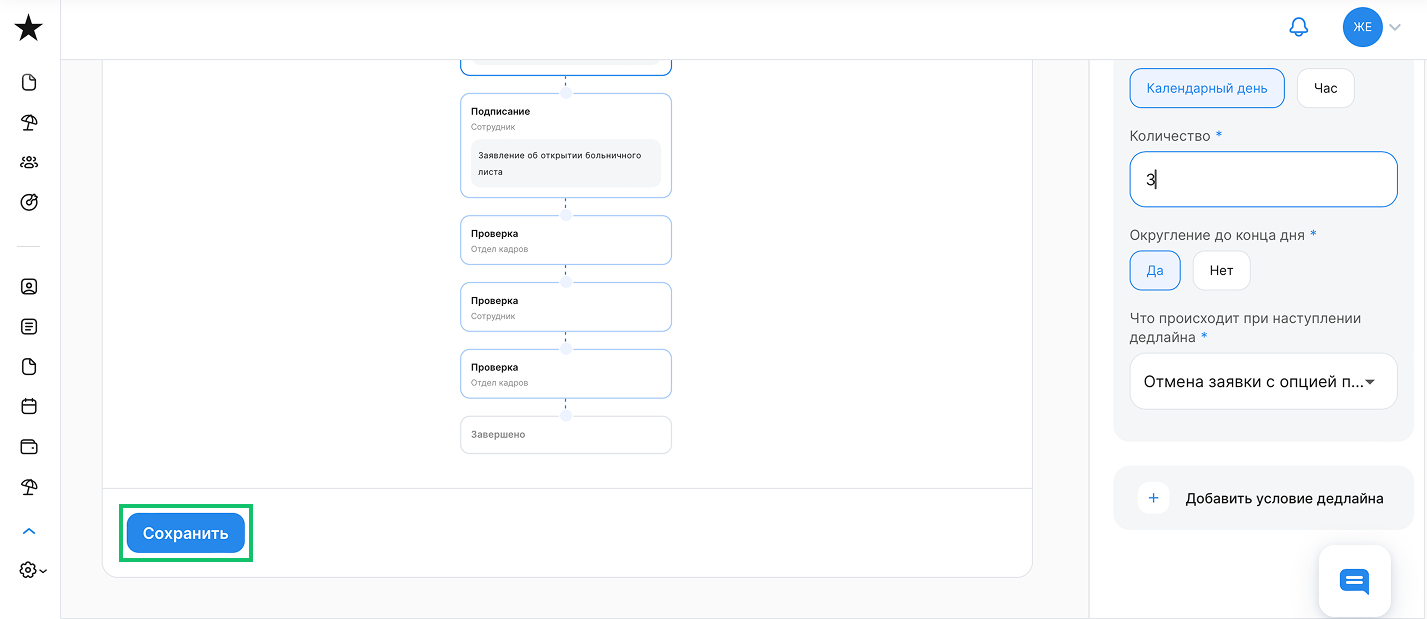
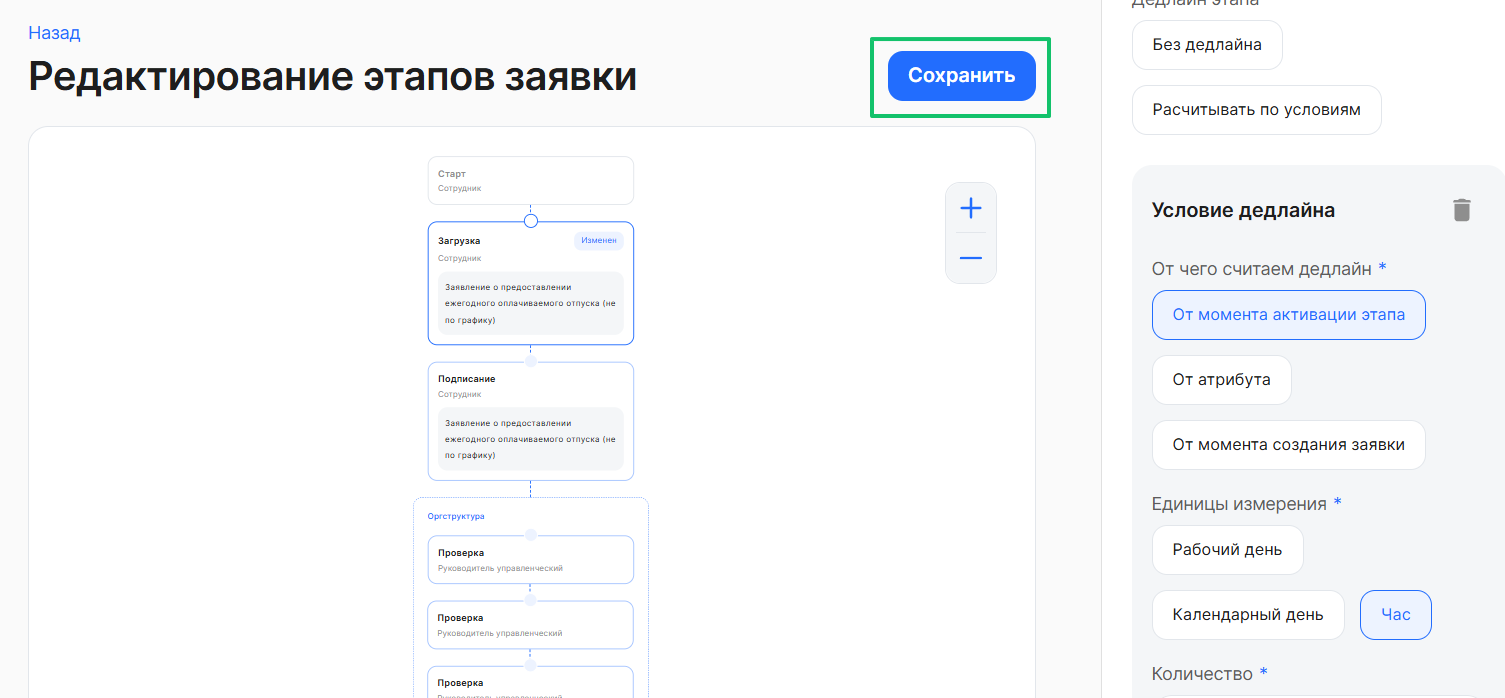
Release 2026-03-19 05:46:16

diff --git a/docs/ru/admin_actions/events_types/managing_event_types/deadline/deadline.md b/docs/ru/admin_actions/events_types/managing_event_types/deadline/deadline.md
@@ -1,10 +1,14 @@
 У определённых типов заявок могут быть проставлены ограничения по времени, до которого документ должен быть подписан. По истечении этого срока заявка автоматически отменится и её можно будет подписать только в бумажном виде. 
 
+Можно задать до трёх условий для вычисления дедлайна на этапе заявки.
+
+По каждому заданному условию рассчитываются свои дата и время дедлайна.
+
 <warn>
 Важно отслеживать дедлайны, чтобы заявка не отменилась
 </warn>
 
-Для добавления и редактирования дедлайна на этапах бизнес-процесса перейдите в **Сервисы компании → Настройки → Типы заявок**. 
+Для добавления и редактирования дедлайна на этапах бизнес-процесса перейдите в **Сервисы компании** → **Настройки** → **Типы заявок**. 
 
 Если в **Сервисах компании** заведено несколько юрлиц, раскройте тот блок компании, в котором необходимо обработать типы заявок. Откройте необходимый тип заявки.
 
@@ -19,35 +23,39 @@
 
 При изменении данных этапов заявки правила валидации обновятся в активных этапах текущих заявок. Новые настройки исполнителей этапов, дедлайнов и оргструктуры применятся только в новых заявках.
 
-Корректировать типы заявок может только пользователь с ролью **Администратор**.
+Корректировать типы заявок может только пользователь с ролью **Администратор**
 
 </warn>
 
 При наведении курсора на любой этап процесса появляются подсказки о сроке и событии при наступлении дедлайна.
 
-![Тип заявки](./assets/deadline1.png)
+Чтобы отредактировать настройки этапа, нажмите кнопку **Редактировать**.
 
-Чтобы отредактировать настройки этапа, нажмите кнопку !["Карандаш"](./assets/pencil1.png "inline") в этапе процесса.
+![](./assets/deadline1.png)
 
-В форме **Редактирование** заполните поля:
+В форме **Редактирование этапов заявки** выберите этап процесса. В правой части окна появится блок **Настройки**.
 
-- **На чьей стороне**. Из списка выберите одного из представителей компании, например, *Отдел кадров*. Подробнее об исполнителях на этапах процесса описано в [статье](/ru/admin_actions/events_types/managing_event_types/executors). 
+![](./assets/deadline_settings.png)
 
-<info> Заполнение поля **На чьей стороне** недоступно в случае, если указано значение **Сотрудник** или **Руководитель**. 
+В блоке **Настройки** из списка выберите одного из представителей компании, например, *Отдел кадров*. Подробнее об исполнителях на этапах процесса описано в [статье](/ru/admin_actions/events_types/managing_event_types/executors). 
+
+<info> Выбор исполнителя не доступен в случае, если указано значение **Сотрудник** или **Руководитель**
 </info>
 
-- **От чего считаем дедлайн**. Из списка выберите событие, от которого будет рассчитываться дедлайн: **От момента активации этапа**, **От атрибута**, **От момента создания заявки**. Примеры расчёта дедлайна см. в [статье](/ru/hr/company/application/deadline).
+В блоке **Настройки** выберите опцию **Расчитывать по условиям** и заполните поля:
 
-<info> Дальнейшее заполнение формы **Редактирование** невозможно, пока в поле **От чего считаем дедлайн** указан пункт «Без дедлайна»
-</info>
+Задайте условия расчёта дедлайна. Можно задать до трёх условий для вычисления дедлайна на этапе заявки.
 
-![Без дедлайна](./assets/no_deadline.png)
+- **От чего считаем дедлайн**. Из списка выберите событие, от которого будет рассчитываться дедлайн: **От момента активации этапа**, **От атрибута**, **От момента создания заявки**. Примеры расчёта дедлайна см. в [статье](/ru/hr/company/application/deadline)
+
+
+![](./assets/deadline_edit.png)
 
 <br>
 
 ## **Редактирование дедлайна от момента активации этапа и от момента создания заявки**
 
-<info> Редактирование дедлайна **от момента создания заявки** проходит аналогично процедуре редактирования дедлайна **от момента активации этапа**. </info>
+<info> Редактирование дедлайна **от момента создания заявки** проходит аналогично процедуре редактирования дедлайна **от момента активации этапа** </info>
 
 В поле **От чего считаем дедлайн** выберите событие **От момента активации этапа** и заполните следующие поля: 
 
@@ -65,7 +73,7 @@
 
 <info> Настройка **Отмена заявки с опцией перехода в бумагу** установлена по умолчанию </info>
 
-![От момента активации этапа](./assets/active.png)
+![](./assets/deadline_activate.png)
 
 <br>
 
@@ -88,30 +96,37 @@
 
 <info> Настройка **Отмена заявки с опцией перехода в бумагу** установлена по умолчанию </info>
 
-![От атрибута](./assets/atribut.png)
+![](./assets/deadline_atribut.png)
 
 <br>
 
 ## **Сохранение дедлайна**
-На форме **Редактирование** нажмите кнопку **Сохранить**. 
 
-<info> Кнопка **Сохранить** станет доступна после заполнения всех обязательных полей на форме **Редактирование** </info>
+<info> Кнопка **Сохранить** станет доступна после заполнения всех обязательных полей на форме **Редактирование этапов заявки** </info>
 
-Чтобы подтвердить изменение дедлайна в этапе заявки, нажмите кнопку **Изменить**.
+На этапах, где Администратор КЭДО приступил к редактированию и при этом не заполнил все обязательные поля, появится метка «Заполните данные».
 
-![Изменение типа заявки](./assets/deadline2.png)
+В форме **Редактирование этапов заявки** нажмите кнопку **Сохранить**. 
+
+Чтобы подтвердить изменения дедлайнов в этапах заявки, нажмите кнопку **Изменить**.
+
+![](./assets/deadline2.png)
 
 В блоке этапа процесса обновится срок на исполнение этапа.
 
 ## **Удаление дедлайна**
-Для удаления дедлайна нажмите кнопку !["Удалить"](./assets/delete.png "inline") в блоке этапа процесса.
+Для удаления дедлайна откройте нужный тип заявок, в блоке **Этапы заявки** нажмите кнопку **Редактировать**.
 
-![Тип заявки](./assets/deadline3.png)
+Выберите этап процесса, в котором необходимо удалить дедлайн, в блоке **Настройки** в поле **Дедлайн этапа** выберите **Без дедлайна**. 
 
-Чтобы подтвердить удаление дедлайна, нажмите кнопку **Удалить дедлайн**.
+Нажмите кнопку **Сохранить**.
 
-![Удалить дедлайн](./assets/deadline4.png)
+![](./assets/deadline3.png)
 
-После удаления дедлайна в блоке этапа больше не будет назначен дедлайн (надпись *Нет дедлайна*).  
+Чтобы подтвердить удаление дедлайна, нажмите кнопку **Изменить**.
 
-Дедлайн можно пересоздать снова, повторив действия из статьи [Добавление и редактирование дедлайна](#dobavlenie-i-redaktirovanie-dedlayna). 
+![](./assets/deadline_not.png)
+
+После удаления дедлайна в блоке этапа появится надпись *Нет дедлайна*.  
+
+Дедлайн можно задать снова, повторив действия, описанные в статье [Добавление и редактирование дедлайна](#dobavlenie-i-redaktirovanie-dedlayna). 

diff --git a/docs/ru/admin_actions/settings/account/role_model/role_model.md b/docs/ru/admin_actions/settings/account/role_model/role_model.md
@@ -1,0 +1,104 @@
+Настройка ролевой модели один раз для всех компаний в рамках аккаунта — упрощает администрирование крупных холдингов и сетевых структур. Вместо повторной настройки прав доступа в каждой компании, достаточно сконфигурировать модель на уровне аккаунта, и все компании автоматически унаследуют эти настройки.  Администратор может также отметить отдельные компании как исключения, для которых будут действовать собственные настройки ролевой модели.
+
+Доступно для пользователей с ролью «Администратор в аккаунте» в разделе **Настройки → Настройки аккаунта**.
+
+В блоке **Настройка доступов к данным → Использование ролевой модели** можно выполнить следующие действия:
+
+1. включить/отключить использование ролевой модели на аккаунт; 
+
+2. настроить ролевую модель на аккаунт;
+
+3. управлять исключениями — компаниями, которые имеют ролевую модель, отличимую от модели аккаунта. 
+
+![](./assets/AccountSettings-admin-22.png)
+
+## Настройка доступов к данным
+
+Чтобы настроить доступы к данным для всех компаний в аккаунте, кроме исключений, нажмите кнопку **Настроить**. Настройки можно редактировать, когда ролевая модель не используется (состояние **Выключено**), а затем включить уже настроенную модель. 
+
+Доступы при выключенной ролевой модели установлены в соответствии с настройками доступа для ролей (групп) представителей компании.
+
+На странице **Аккаунт: настройка доступов к данным** можно настроить доступ к разделам и данным сервиса для всех сотрудников, руководителей, представителей компании. 
+
+![](./assets/Accessessettings-1-3.png)
+
+<br>
+
+В таблице перечислены данные, к которым настраивается доступ, из следующих разделов сервиса VK HR Tek:
+
+1. Общее — Оргструктура.
+1. Общее — Данные сотрудников в оргструктуре компании.
+1. Компания — Сотрудники (доступ целиком).
+1. Компания — Корпоративные документы (доступ целиком).
+1. Компания — Рабочее время (доступ целиком).
+1. Сотрудник — Компетенции (доступ целиком).
+1. Сотрудник — Персональные данные (доступ к отдельным данным: дата рождения, общая информация, документы, контакты, о семье).
+
+Некоторые данные из перечисленных разделов полностью недоступны для редактирования. Это связано с тем, что у пользователя нет роли для доступа к разделам на стороне компании в аккаунте.  
+
+В рамках аккаунта можно настроить доступ для следующих типов пользователей:
+
+1. Сотрудники:
+- все сотрудники компании — пользователи, у которых есть хотя бы один неуволенный сотрудник в компании;
+- все сотрудники группы компаний — пользователи, у которых есть хотя бы один неуволенный сотрудник в любой компании аккаунта (если компания входит в группу компаний).
+
+![](./assets/r5.png)
+
+<br>
+
+2. Руководители:
+- все руководители — пользователи, которые являются руководителями по любому алгоритму;
+- руководители сотрудника — пользователи, которые (по любому алгоритму) являются прямыми или выше по иерархии руководителями определенного сотрудника.
+
+![](./assets/r4.png)
+
+<br>
+
+3. Представители компании:
+- все представители компании — пользователи, у которых есть хотя бы одна роль в компании;
+- представители определенной роли в компании. Если у роли есть родительская роль, то название роли в выпадающем списке выглядит: <Название группы / Название родительской группы>, например, Бухгалтер / Главный бухгалтер / Руководитель бухгалтерии. 
+
+![](./assets/r3.png)
+
+<br>
+
+По завершении редактирования настроек нажмите кнопку **Сохранить настройку**.
+
+![](./assets/r6.png)
+
+## Включение ролевой модели
+Чтобы включить настроенную ролевую модель, активируйте переключатель на странице **Настройки аккаунта** или нажмите кнопку **Включить** на странице настройки ролевой модели, а затем подтвердите действие.
+
+![](./assets/r23.png)
+
+![](./assets/r24.png)
+
+![](./assets/r7.png)
+
+## Управление исключениями
+
+Чтобы настроить ролевую модель для отдельной компании в аккаунте, нажмите кнопку **Управлять исключениями** на странице **Настройки аккаунта**.
+
+![](./assets/r8.png)
+
+На странице **Управление исключениями**, если в список исключений ранее были добавлены компании, можно отредактировать настройки доступа для этих компаний. Для этого нажмите на строку с названием компании в списке. 
+
+Для добавления компании в список исключений нажмите кнопку **Добавить исключение**.
+
+![](./assets/AccountSettings-admin-14.png)
+
+Добавьте компании из выпадающего списка и сохраните выбор. 
+
+![](./assets/AccountSettings-admin-13.png)
+
+Чтобы настроить ролевую модель в компании, откройте необходимую компанию в списке исключений.
+
+![](./assets/r9.png)
+
+Настройка ролевой модели для компании описана в статье [Использование ролевой модели](/ru/admin_actions/settings/settings_comp/role_model#nastroyka_dostupov_k_dannym).
+
+Чтобы удалить компанию из списка исключений, нажмите кнопку **Удалить компанию**.
+
+![](./assets/r10.png)
+
+

diff --git a/docs/ru/hr/company/application/deadline/deadline.md b/docs/ru/hr/company/application/deadline/deadline.md
@@ -1,6 +1,21 @@
-Каждый этап заявки может иметь срок окончания — дедлайн. Добавлять, редактировать и удалять дедлайны может только сотрудник с ролью «Администратор» в Кабинете компании, в разделе **Настройки → Типы заявок** (см. [статью](/ru/admin_actions/events_types/managing_event_types)).
+Каждый этап заявки может иметь срок окончания — дедлайн. 
 
-У определенных типов заявок могут быть проставлены ограничения по времени, до которого документ должен быть подписан или проверен. По истечении этого срока заявка автоматически отменится и ее можно будет подписать только в бумажном виде (заявка перейдет в раздел **В бумагу**).
+Если выбрать опцию **Без дедлайна**, дедлайн на этап НЕ будет установлен, а заявка перейдёт на следующий этап, как только будет совершено действие загрузка/подписание/проверка. 
+
+Добавлять, редактировать и удалять дедлайны может только сотрудник с ролью «Администратор» в Кабинете компании, в разделе **Настройки** → **Типы заявок** (см. [статью](/ru/admin_actions/events_types/managing_event_types)).
+
+У определенных типов заявок могут быть проставлены ограничения по времени, до которого документ должен быть подписан или проверен. По истечении этого срока заявка автоматически отменится и ее можно будет подписать только в бумажном виде (заявка перейдёт в раздел **В бумагу**).
+
+Можно задать до трёх условий для вычисления дедлайна на этапе заявки.
+
+По каждому заданному условию рассчитываются свои дата и время дедлайна. Затем Администратор выбирает одну из опций определения дедлайна:
+
+- Ближайшая дата (по умолчанию).
+- Поздняя дата.
+
+Пример расчёта дедлайна по каждому из условий:
+
+![](./assets/deadline_table.png)
 
 <warn>
 Важно отслеживать дедлайны, чтобы заявка не отменилась
@@ -9,12 +24,12 @@
 ![](./assets/13.png)
 
 ## От чего считается дедлайн?
-При создании/редактировании дедлайна Администратор выбирает событие, от которого будет рассчитываться дедлайн:
 
-- **Без дедлайна**. Дедлайн на этап НЕ будет установлен, а заявка перейдет на следующий этап как будет совершено действие загрузка/подписание/проверка. 
-- **От момента активации этапа**. Отсчет дедлайна по данному этапу станет активным, после того как заявка перейдет на следующий этап. 
+При создании или редактировании дедлайна Администратор выбирает событие, от которого будет рассчитываться дедлайн:
+
+- **От момента активации этапа**. Отсчёт дедлайна по данному этапу станет активным, после того как заявка перейдёт на следующий этап. 
 - **От атрибута**. Атрибут – это поле, которое заполняет либо сотрудник, либо представитель компании, например, **Дата начала отпуска**, **Дата перевода**. Нельзя указывать дедлайн от атрибута на первом этапе заявки. 
-- **От момента создания заявки**. Отсчет дедлайна станет активным после создания заявки. По умолчанию моментом создания заявки считается 00:00 даты создания заявки.
+- **От момента создания заявки**. Отсчёт дедлайна станет активным после создания заявки. По умолчанию моментом создания заявки считается 00:00 даты создания заявки.
 
 Не рекомендуем ставить дедлайны на последних этапах с типом **Проверка**.
 
@@ -27,7 +42,7 @@
 - Нулевое значение. Пример: 0 дней. Сотрудник должен выполнить этап до конца текущего дня с момента активации этапа. 01.09.2023 10:20:00 + 0 дней с округлением до конца дня = 02.09.2023 → дедлайн наступит в 00:00:00 02.09.2023.
 
 ## Дедлайн «От атрибута»
-Дедлайн может отсчитываться в *рабочих или* *календарных днях*.
+Дедлайн может отсчитываться в *рабочих* или *календарных днях*.
 
 Значения дедлайнов могут быть:
 
@@ -77,4 +92,4 @@
 
 - **Отмена заявки с опцией перехода в бумагу**.  При наступлении дедлайна заявка будет отменена и попадёт в список **В бумагу**;
 - **Отмена заявки**. При наступлении дедлайна заявка будет отменена (в список **В бумагу** не попадёт);
-- **Переход на следующий этап**. При наступлении дедлайна заявка перейдет на следующий этап. Работает только на этапе **Проверка**. На этапах загрузки и подписания не работает. 
+- **Переход на следующий этап**. При наступлении дедлайна заявка перейдёт на следующий этап. Работает только на этапе **Проверка**. На этапах загрузки и подписания не работает. 

diff --git a/docs/ru/admin_actions/events_types/managing_event_types/executors/executors.md b/docs/ru/admin_actions/events_types/managing_event_types/executors/executors.md
@@ -1,14 +1,14 @@
 На этапах процесса с типом «Проверка» (этап не должен быть на руководителе), «Подписание» и «Загрузка» можно менять подписанта/согласующего.
 
 Чтобы назначить исполнителя на этапе:
-1. Перейдите в **Сервисы компании → Настройки → Типы заявок**.
+1. Перейдите в **Сервисы компании** → **Настройки** → **Типы заявок**.
 2. Откройте нужный тип заявки из списка бизнес-процессов компании.
-3.  Нажмите на кнопку !["Карандаш"](./assets/pencil1.png "inline") в этапе процесса.
-4. В форме **Редактирование** заполните поле **На чьей стороне**. 
+3. Нажмите на кнопку **Редактировать** в блоке **Этапы заявки**.
+4. В блоке **Настройки** выберите исполнителя этапа из выпадающего списка. 
 
-Изменить исполнителя можно на роль, доступную в списке **На чьей стороне**. Главное условие – сотруднику, который должен будет подписать или согласовать документ на этапе, должна быть выдана соответствующая роль (например, Отдел кадров, Бухгалтерия и т.д.).
+Изменить исполнителя можно на роль, доступную в списке. Главное условие – сотруднику, который должен будет подписать или согласовать документ на этапе, должна быть выдана соответствующая роль (например, Отдел кадров, Бухгалтерия и т.д.).
 
-Пользователь с правами Администратора присваивает роли в разделе **Сервисы компании → Настройки → Роли сотрудников** (см. [статью](/ru/admin_actions/settings/groups)).
+Пользователь с правами Администратора присваивает роли в разделе **Сервисы компании** → **Настройки** → **Роли сотрудников** (см. [статью](/ru/admin_actions/settings/groups)).
 
 ![Исполнители на этапах](./assets/executors.png)
 
@@ -16,6 +16,6 @@
 
 При изменении данных этапов заявки правила валидации обновятся в активных этапах текущих заявок. Новые настройки исполнителей этапов, дедлайнов и оргструктуры применятся только в новых заявках.
 
-Корректировать типы заявок может только пользователь с ролью **Администратор**.
+Корректировать типы заявок может только пользователь с ролью **Администратор**
 
 </warn>

diff --git a/docs/ru/hr/company/application/faq/question4/question4.md b/docs/ru/hr/company/application/faq/question4/question4.md
@@ -8,11 +8,13 @@
 </warn>
 
 
-Для добавления и редактирования дедлайна на этапах бизнес-процесса перейдите в **Настройки КЭДО** → **Типы заявок**. Выберите интересующий тип заявки → **Этапы заявки** → **Редактировать**.
+Для добавления и редактирования дедлайна на этапах бизнес-процесса перейдите в **Настройки КЭДО** → **Типы заявок**. Выберите интересующий тип заявки, в блоке **Этапы заявки** нажмите кнопку **Редактировать**.
 
 ![](./assets/edit.png)
 
 На этапах заявки вы можете установить, отредактировать или удалить дедлайн. После редактирования нажмите кнопку **Сохранить**.
+
+Можно внести изменения во все этапы, где это требуется, и сохранить все внесённые правки одновременно.
 
 ![](./assets/apply.png)
 
@@ -23,6 +25,7 @@
 
 
 Важно помнить, что: 
-1. Нельзя устанавливать дедлайн с автоматическим переходом на следующий этап для этапов "Загрузка", "Подписание" и иные, система выдаст ошибку.
-2. Проставить дедлайны также можно и на Универсальные процессы.
+1. Нельзя устанавливать дедлайн с автоматическим переходом на следующий этап для этапов **Загрузка** и **Подписание**, система выдаст ошибку.
+2. Установить дедлайны можно и для [Универсального процесса](/ru/admin_actions/events_types/create_event_types).
 
+Подробнее о дедлайнах см. в [статье](/ru/admin_actions/events_types/managing_event_types/deadline).

diff --git a/docs/ru/admin_actions/events_types/managing_event_types/types/types.md b/docs/ru/admin_actions/events_types/managing_event_types/types/types.md
@@ -1,4 +1,4 @@
-Для управления дедлайнами, валидаторами и исполнителями на этапах бизнес-процесса перейдите в **Сервисы компании → Настройки → Типы заявок**. 
+Для управления дедлайнами, валидаторами и исполнителями на этапах бизнес-процесса перейдите в **Сервисы компании** → **Настройки** → **Типы заявок**. 
 
 ![Типы заявок](./assets/Screenshot_186.png)
 
@@ -8,10 +8,10 @@
 
 ![Тип заявки](./assets/event_type.png)
 
-Каждый блок этапа состоит из элементов:
+Каждый блок этапа заявки состоит из элементов:
 
 1. Название этапа. Доступны этапы с названиями: **Загрузка**, **Подписание**, **Проверка**.
 1. Исполнитель. Доступны этапы с исполнителями: **Сотрудник**, **Руководитель**, представитель или группа компании — например, **Отдел кадров**.
 1. Название документа. Например, заявление о предоставлении ежегодного отпуска.
 
-Чтобы изменить масштаб схемы, нажмите на кнопку !["Плюс"](./assets/plus2.png "inline") или !["Минус"](./assets/minus2.png "inline") справа от схемы процесса.
+Чтобы изменить масштаб схемы, нажмите кнопку !["Плюс"](./assets/plus2.png "inline") или !["Минус"](./assets/minus2.png "inline") справа от схемы процесса.

diff --git a/docs/ru/admin_actions/events_types/create_event_types/create_event_types.md b/docs/ru/admin_actions/events_types/create_event_types/create_event_types.md
@@ -45,7 +45,7 @@
 
 <info> 
 
-Чтобы процесс отобразился у менеджера VK HR Tek для дальнейшей донастройки или переноса на другие юрлица, добавьте в универсальный процесс хотя бы один дедлайн в разделе **Сервисы компании** → **Настройки** → **Типы заявок**. Подробнее о дедлайнах в [статье](/ru/admin_actions/events_types/managing_event_types/deadline).
+Чтобы процесс отобразился у менеджера VK HR Tek для дальнейшей донастройки или переноса на другие юрлица, добавьте в универсальный процесс хотя бы один дедлайн в разделе **Сервисы компании** → **Настройки** → **Типы заявок**. Подробнее о дедлайнах см. в [статье](/ru/admin_actions/events_types/managing_event_types/deadline).
 
 </info> 
 

diff --git a/docs/ru/hr/company/application/child_events/copy_documents/copy_documents.md b/docs/ru/hr/company/application/child_events/copy_documents/copy_documents.md
@@ -4,6 +4,13 @@
 
 Если в дочерней заявке для типа документа есть этап загрузки или создания из шаблона, то такой документ не будет копироваться из родительской.
 
+<info>
+
+Копирование документов из заявки с сотрудником в заявку без сотрудника невозможно. Связанные заявки без сотрудника не могут быть созданы с копированием документов из заявок с сотрудником, включая подписанные документы
+
+</info>
+
+
 ## Примеры
 
 Создание дочерней заявки с копированием документов и данных: 

diff --git a/docs/ru/admin_actions/settings/account/widgets/widgets.md b/docs/ru/admin_actions/settings/account/widgets/widgets.md
@@ -66,12 +66,12 @@
 
 <br>
 
-8. Чтобы отредактировать виджеты в компании или удалить компанию из списка исключений, откройте необходимую компанию в списке.
+8. Чтобы отредактировать виджеты в компании, откройте необходимую компанию в списке.
 
 ![](./assets/unnamed7.png)
 
 <br>
 
-9. Нажмите кнопку **Сбросить до аккаунта** и сохраните действие.
+9. Чтобы синхронизировать компанию с аккаунтом, нажмите кнопку **Сбросить до аккаунта** и сохраните действие.
 
 ![](./assets/unnamed8.png)
